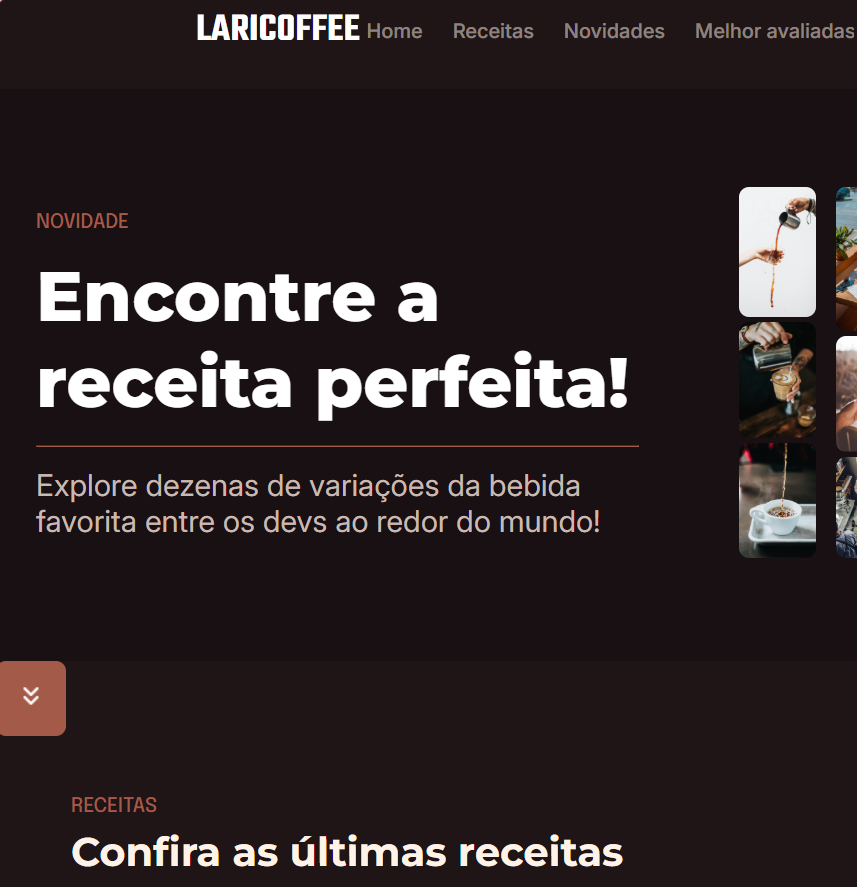
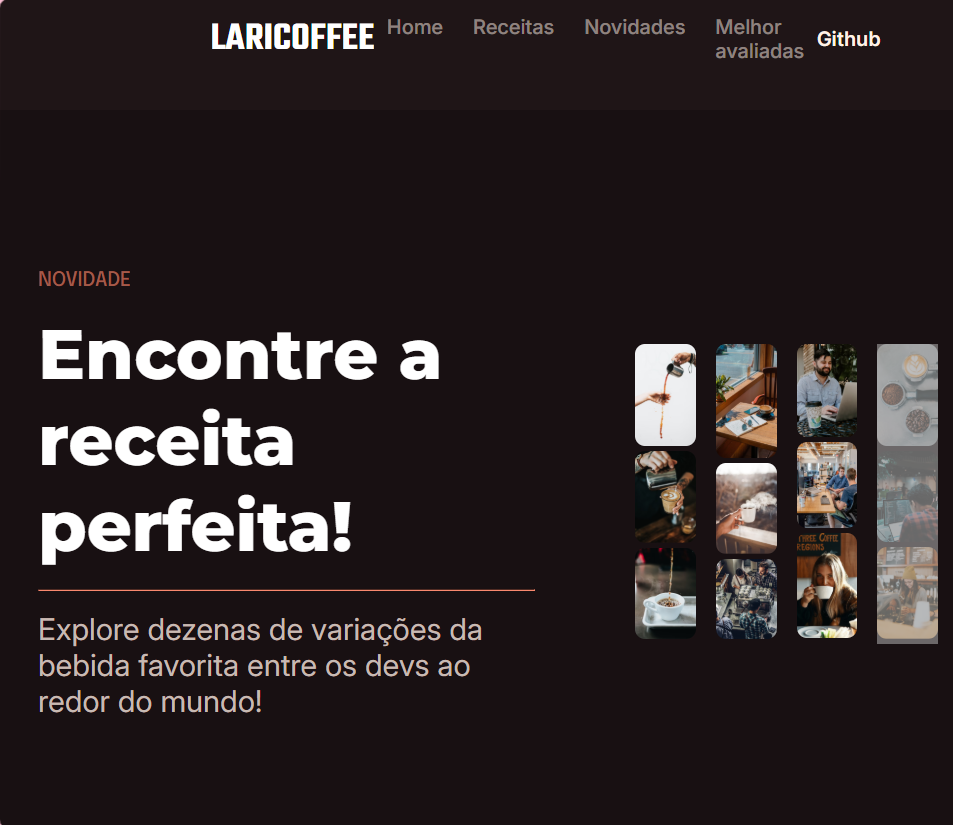
new project

diff --git a/index.html b/index.html
@@ -57,13 +57,24 @@
                         </a>
                         <a class="meu-botao" href="https://github.com/LarissaDaRochaNunes/Projetos-Frontend/tree/main/to-do-list" target="_blank">Ver código-fonte</a>
                     </div> 
+                </article>
+
+                <article class="projeto">
+                    <img src="imagens/HDC-host.png" alt="Interface do projeto HDC Host">
+                    <h3>Landing Page para Provedora de Hospedagem</h3>
+                    <p>HDC Host é uma landing page institucional desenvolvida com HTML5 e CSS3 puro, focada na apresentação de planos de hospedagem, busca de domínios e formulário de contato. A aplicação conta com layout moderno, navegação intuitiva e estrutura totalmente responsiva construída com Flexbox e Media Queries, garantindo excelente usabilidade tanto em dispositivos móveis quanto em desktops.</p>
+                    <div class="projeto-links">
+                        <a class="meu-botao" href="https://larissadarochanunes.github.io/Projetos-Frontend/HDC-host/index.html" target="_blank">Acessar
+                        </a>
+                        <a class="meu-botao" href="https://github.com/LarissaDaRochaNunes/Projetos-Frontend/tree/main/HDC-host" target="_blank">Ver código-fonte</a>
+                    </div> 
 
                 </article>
 
                 <article class="projeto">
                     <img src="imagens/landing-page.png" alt="Interface do projeto LariCoffee">
                     <h3>Plataforma de Receitas de Café</h3>
-                    <p>O LariCoffee é uma landing page moderna e responsiva dedicada a explorar variações e receitas de café, a bebida queridinha entre desenvolvedores ao redor do mundo. O projeto foi estruturado com foco em semântica HTML, organização de layout e uma identidade visual elegante em tons escuros e terrosos.</p>
+                    <p>O LariCoffee é uma landing page moderna dedicada a explorar variações e receitas de café, a bebida queridinha entre desenvolvedores ao redor do mundo. O projeto foi estruturado com foco em semântica HTML, organização de layout e uma identidade visual elegante em tons escuros e terrosos.</p>
                     <div class="projeto-links">
                         <a class="meu-botao" href="https://larissadarochanunes.github.io/Projetos-Frontend/landing-page/index.html" target="_blank">Acessar</a>
                         <a class="meu-botao" href="https://github.com/LarissaDaRochaNunes/Projetos-Frontend/tree/main/landing-page">Ver código-fonte</a>
